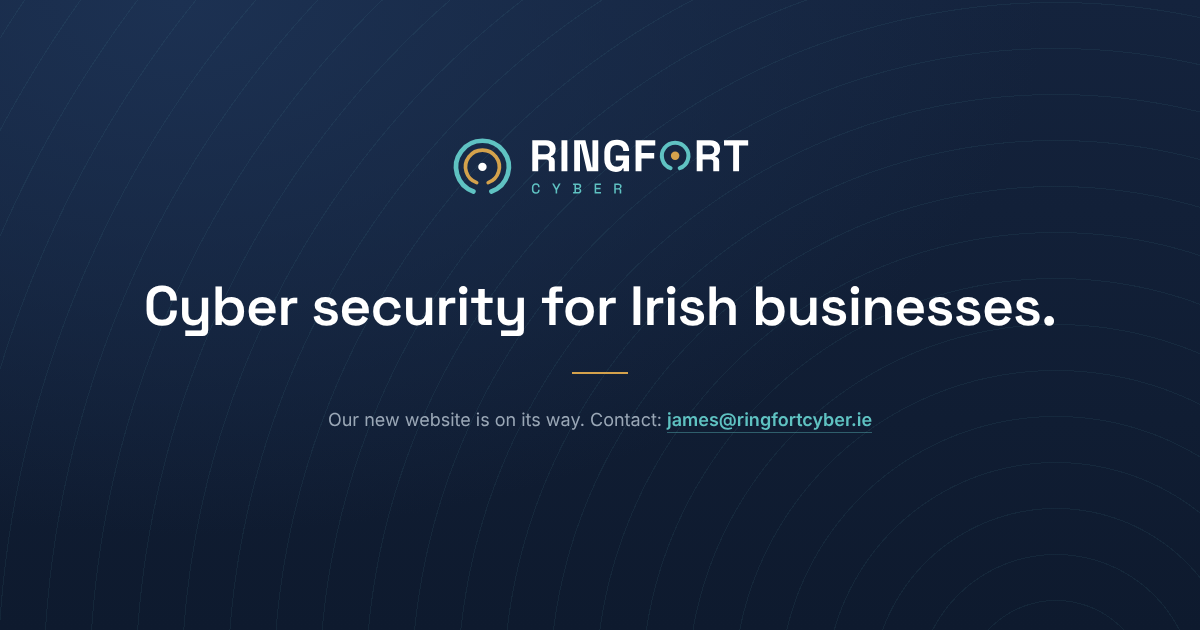
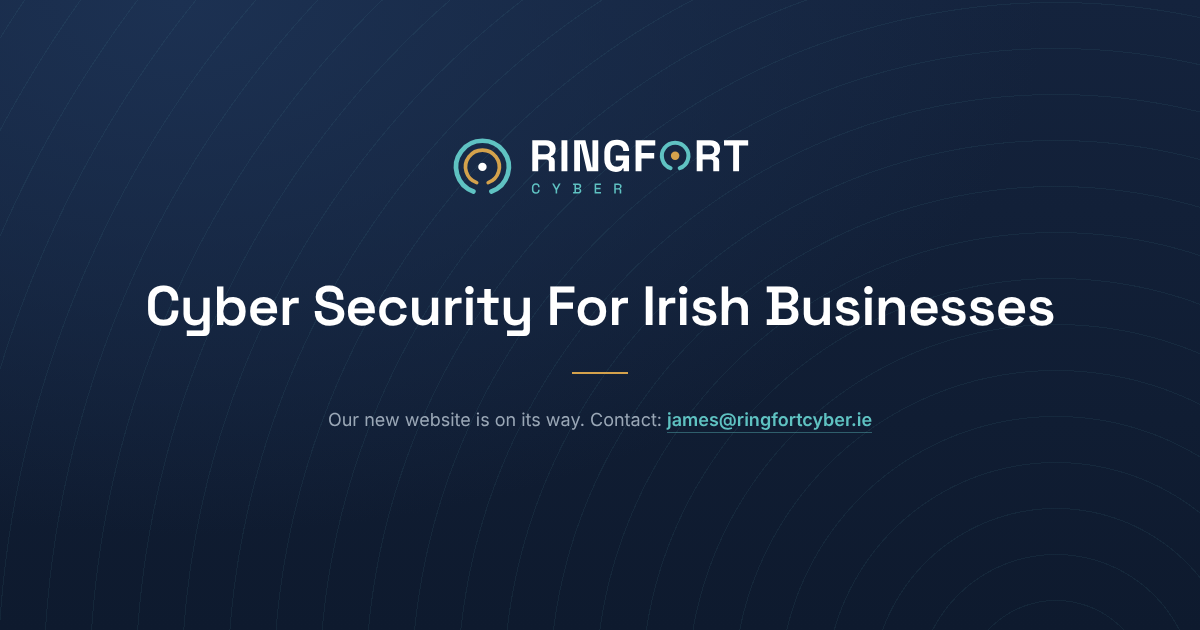
Holding page: tagline Cyber Security For Irish Businesses
Claude-Session: https://claude.ai/code/session_01LPDeTcUb5GJ5gxvpww4cM5

Changed region(s): [[0.1233, 0.4524, 0.8942, 0.5429]]

diff --git a/index.html b/index.html
@@ -3,8 +3,8 @@
 <head>
 <meta charset="utf-8">
 <meta name="viewport" content="width=device-width, initial-scale=1">
-<title>Ringfort Cyber · Cyber security for Irish businesses</title>
-<meta name="description" content="Cyber security for Irish businesses.">
+<title>Ringfort Cyber · Cyber Security For Irish Businesses</title>
+<meta name="description" content="Cyber Security For Irish Businesses">
 <!-- Holding page only: no scripts, no trackers, no outside fonts. Images are our own logo files. -->
 <meta http-equiv="Content-Security-Policy" content="default-src 'none'; img-src 'self'; font-src 'self'; style-src 'unsafe-inline'; base-uri 'none'; form-action 'none'">
 <meta name="referrer" content="strict-origin-when-cross-origin">
@@ -13,7 +13,7 @@
 <meta property="og:type" content="website">
 <meta property="og:site_name" content="Ringfort Cyber">
 <meta property="og:title" content="Ringfort Cyber">
-<meta property="og:description" content="Cyber security for Irish businesses.">
+<meta property="og:description" content="Cyber Security For Irish Businesses">
 <meta property="og:url" content="https://ringfortcyber.ie/">
 <meta property="og:image" content="https://ringfortcyber.ie/og-image.png">
 <meta property="og:image:width" content="1200">
@@ -84,7 +84,7 @@
 <main>
   <div class="wrap">
     <img class="logo" src="ringfort-cyber-logo-white.svg" alt="Ringfort Cyber" width="280" height="72">
-    <h1>Cyber security for Irish businesses.</h1>
+    <h1>Cyber Security For Irish Businesses</h1>
     <hr class="rule">
     <p class="contact">Our new website is on its way. Contact: <a href="mailto:james@ringfortcyber.ie">james@ringfortcyber.ie</a></p>
   </div>
